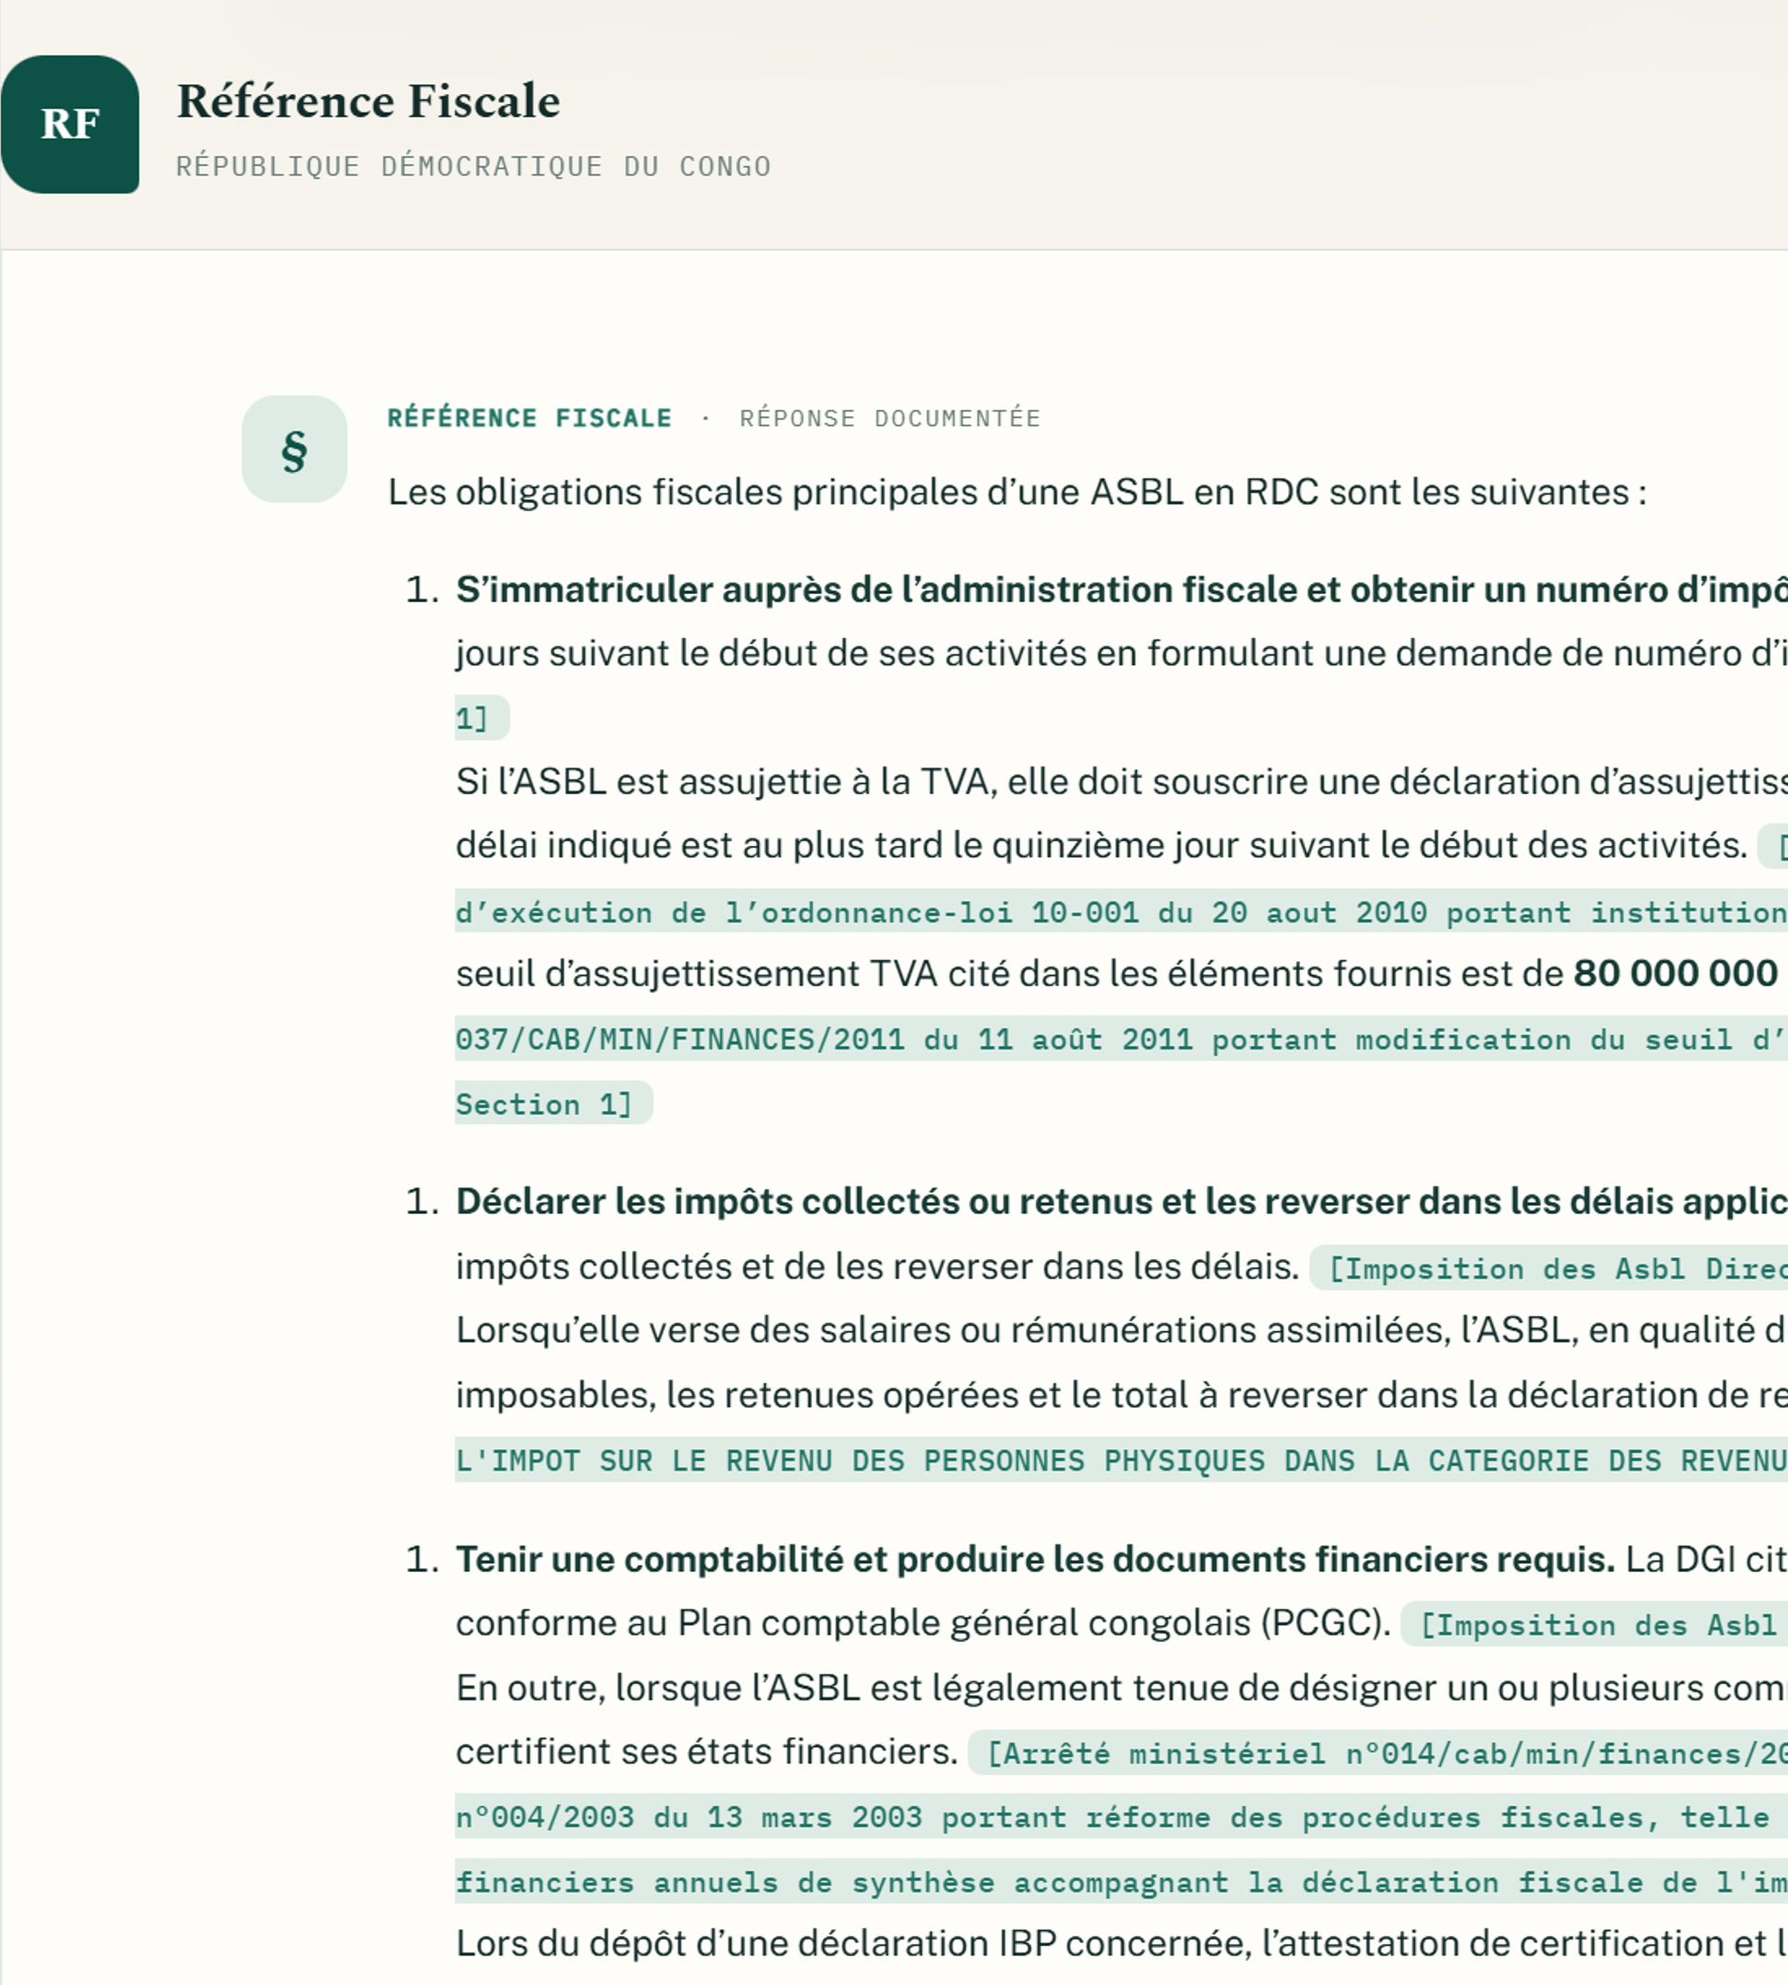
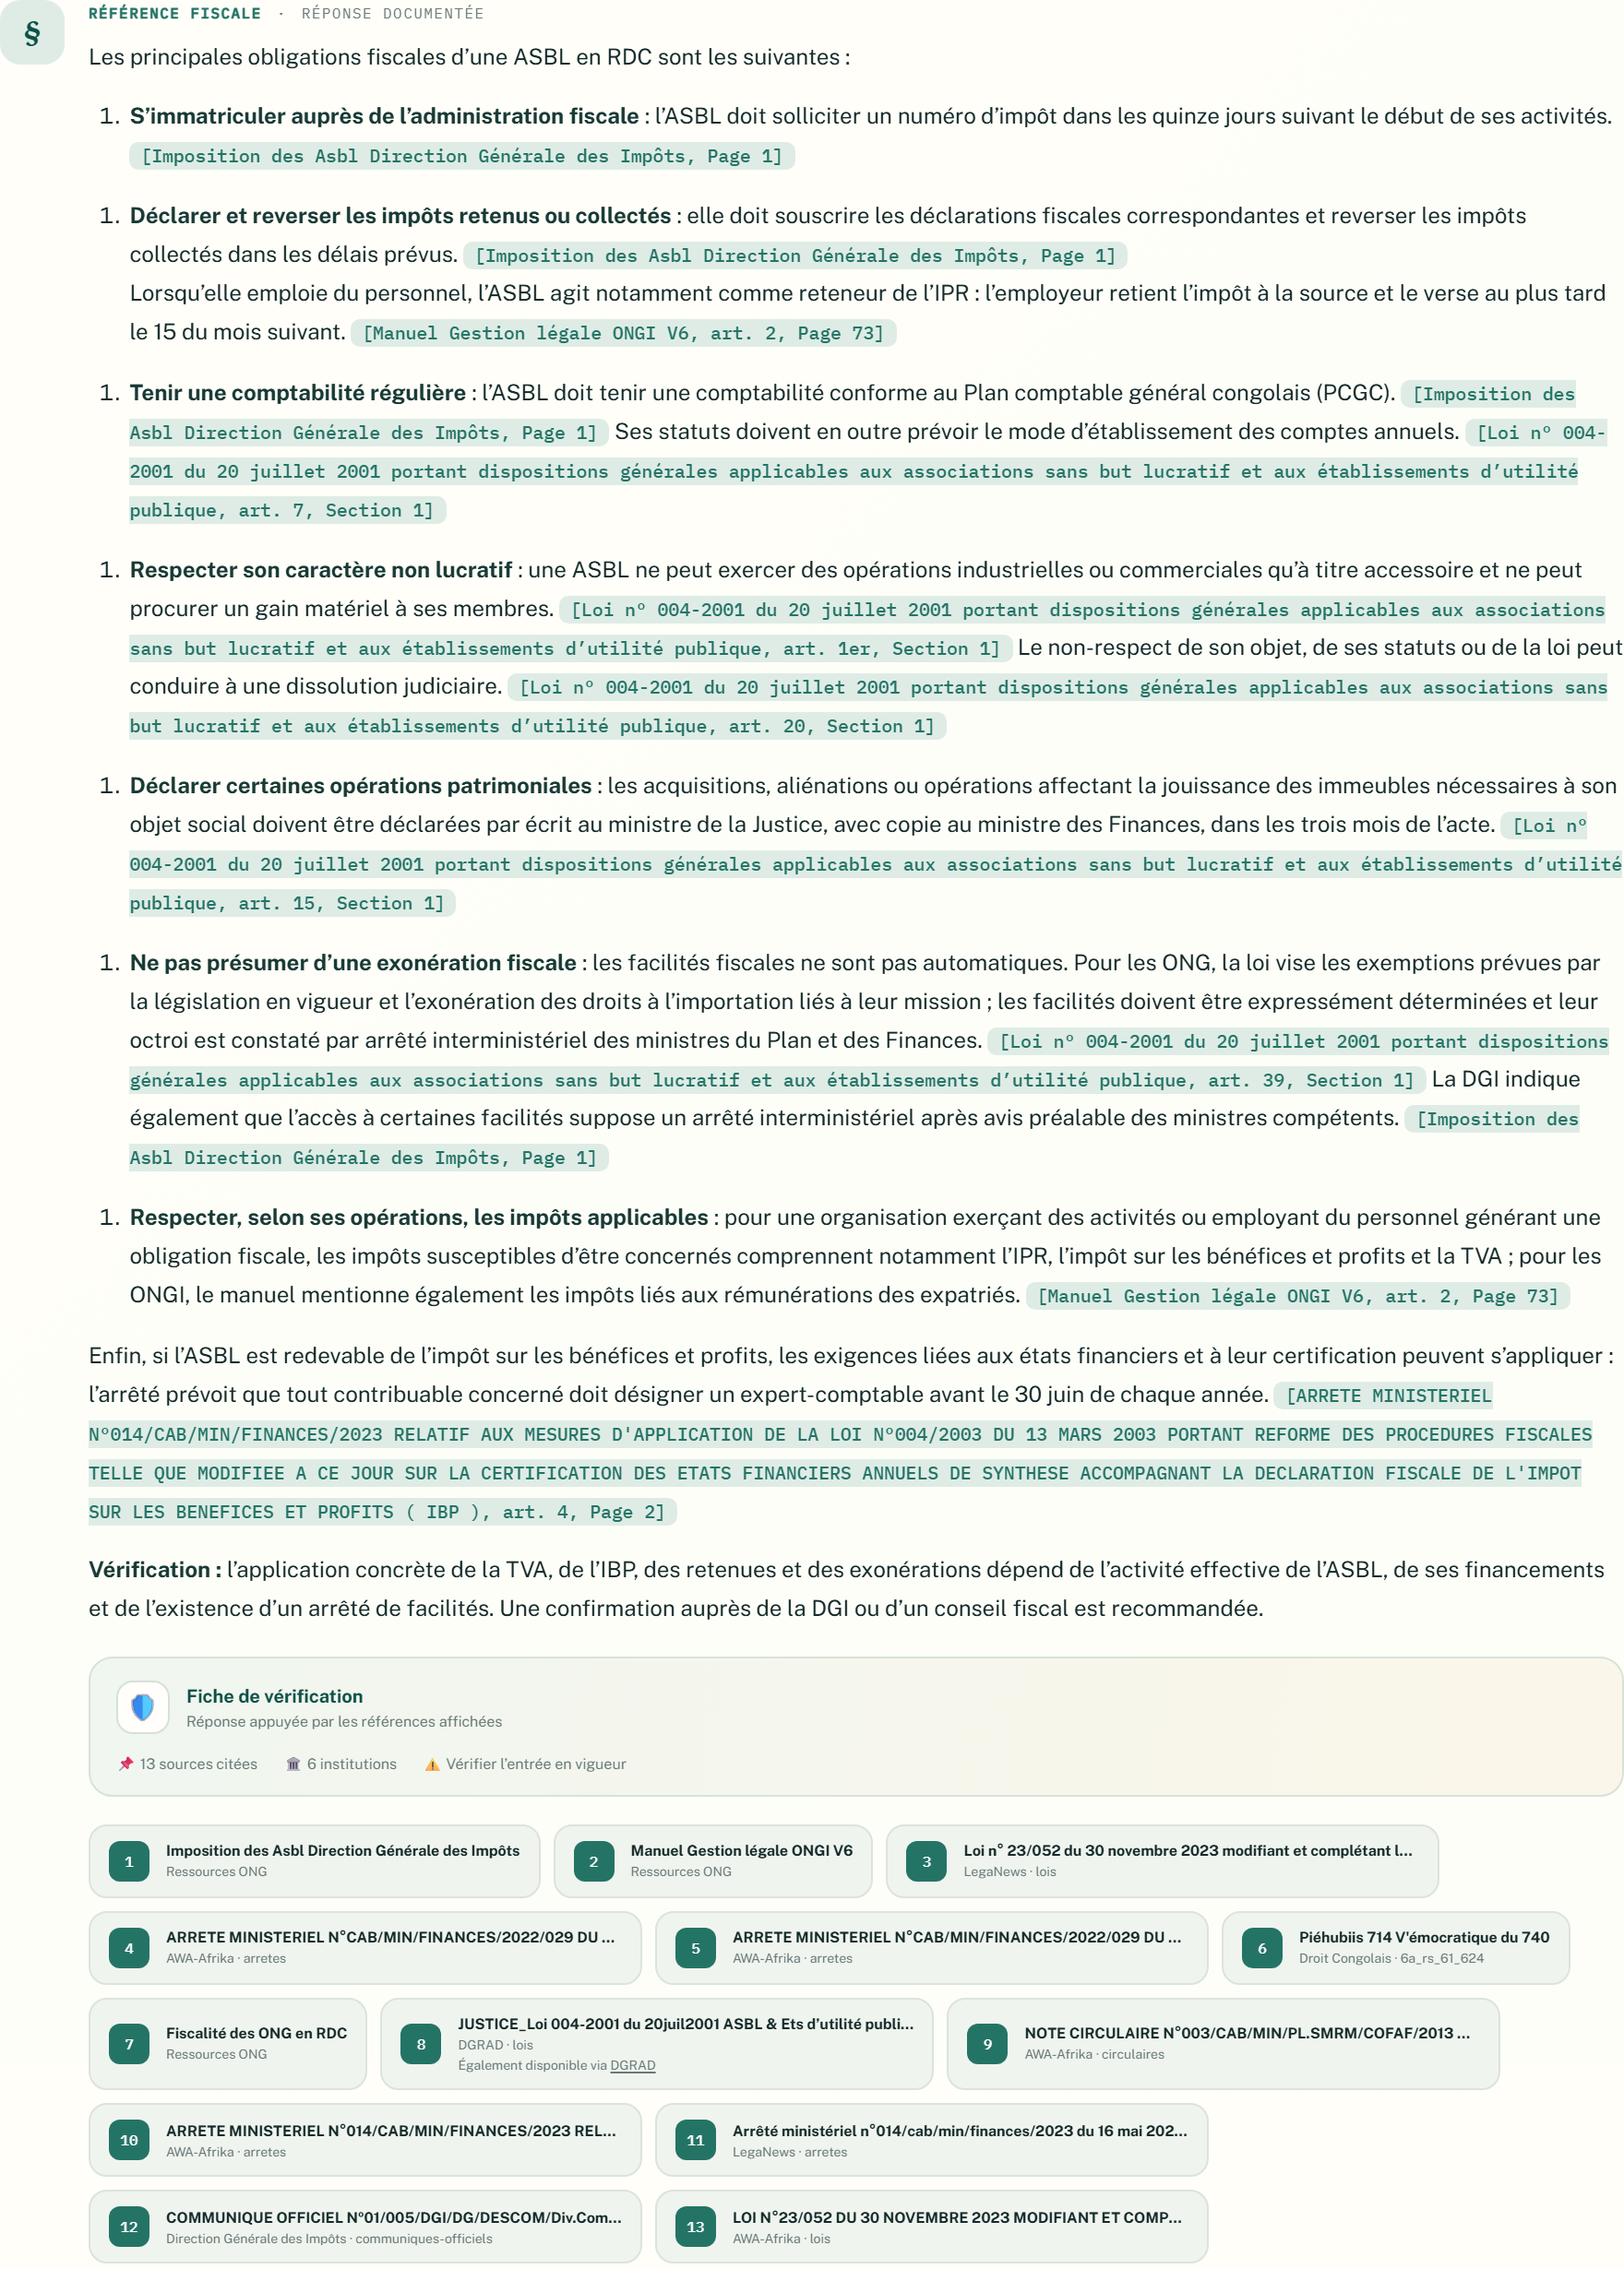
docs: recapture ASBL example screenshots without content cutoff
Previous screenshots truncated citation text at the viewport edge and
the citations image didn't actually show the verification card. Both
are now captured live at a wide-enough viewport (no horizontal
overflow) and show the complete answer, including the sources list.

diff --git a/README.md b/README.md
@@ -43,7 +43,7 @@ they support.
 At the end of the response, the assistant displays its verification card and
 the complete list of references used for the answer.
 
-![Verification summary and twelve references cited for the ASBL example](docs/assets/asbl-citations-example.png)
+![Verification summary and thirteen references cited for the ASBL example](docs/assets/asbl-citations-example.png)
 
 > [!NOTE]
 > This example was captured from the private development index on 25 August
